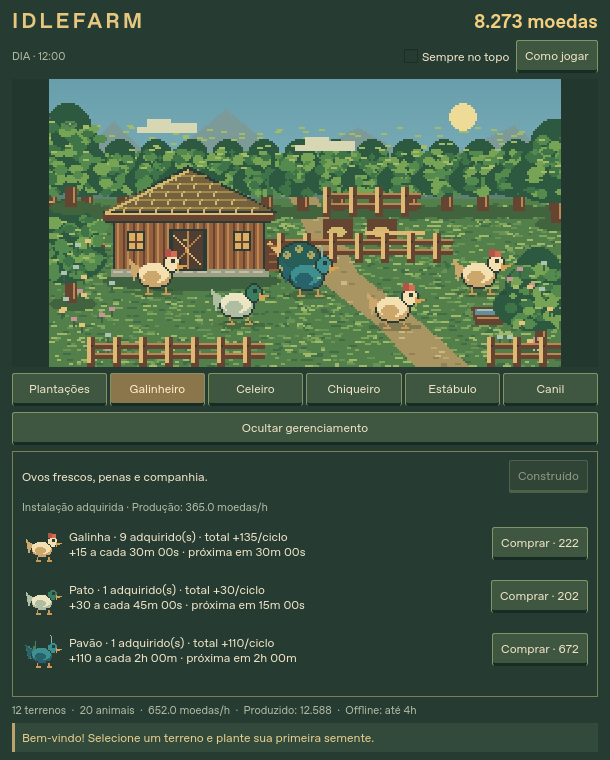
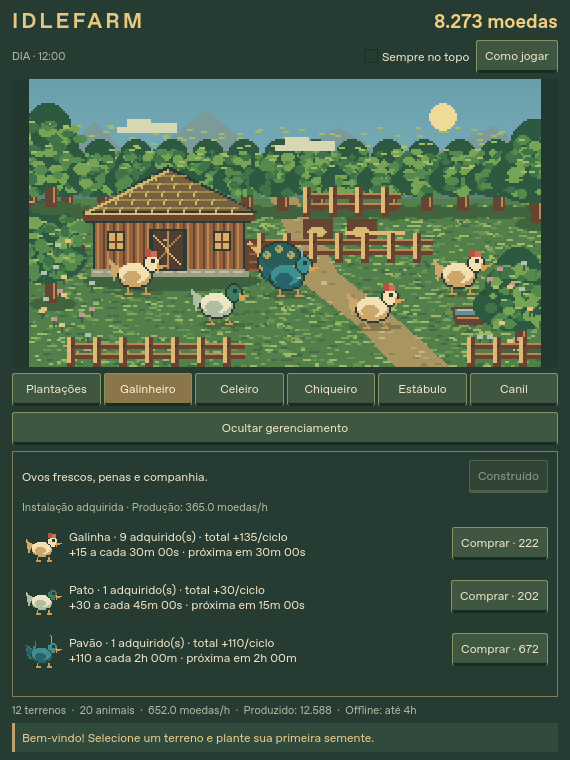
fix: size navigation for native Windows fonts and validate all DPI scales

diff --git a/ui/window.py b/ui/window.py
@@ -5,7 +5,7 @@ from datetime import datetime
 import math
 import time
 from PySide6.QtCore import Qt, QTimer
-from PySide6.QtGui import QIcon, QPixmap
+from PySide6.QtGui import QFontMetrics, QIcon, QPixmap
 from PySide6.QtWidgets import (
     QApplication,
     QCheckBox,
@@ -118,6 +118,9 @@ class FarmWindow(QMainWindow):
             button = QPushButton(NAMES[key])
             button.setCheckable(True)
             button.setObjectName("tab_" + key)
+            button.ensurePolished()
+            # Native Windows font metrics can differ from Linux despite the same QSS.
+            button.setMinimumWidth(QFontMetrics(button.font()).horizontalAdvance(NAMES[key]) + 20)
             button.clicked.connect(lambda checked=False, k=key: self.navigate(k))
             tabs.addWidget(button)
             self.tabs[key] = button
@@ -145,10 +148,15 @@ class FarmWindow(QMainWindow):
         self.heartbeat.start(1000)
         self.navigate(farm.state["preferences"]["scene"], save=False)
         self.refresh()
-        self.resize(610, self.sizeHint().height())
+        self.setMinimumWidth(max(570, root.minimumSizeHint().width() + 4))
+        self.resize(max(610, self.minimumWidth()), self.sizeHint().height())
         screen = QApplication.primaryScreen()
         if screen:
             area = screen.availableGeometry()
+            if self.sizeHint().height() > area.height() - 64:
+                self.pages.hide()
+                self.manage.setText("Gerenciar fazenda")
+                self.adjustSize()
             self.resize(min(self.width(), area.width()), min(self.height(), area.height() - 24))
             self.move(
                 max(area.left(), area.right() - self.width() - 18),

diff --git a/tools/validate.py b/tools/validate.py
@@ -38,6 +38,8 @@ def main():
         # Screenshots use a separate visual preview clock, not a gameplay speed flag.
         window = FarmWindow(farm)
         window.show()
+        if not window.pages.isVisible():
+            window.toggle_manage()
         app.processEvents()
         clipped = []
         scene_images = {}
